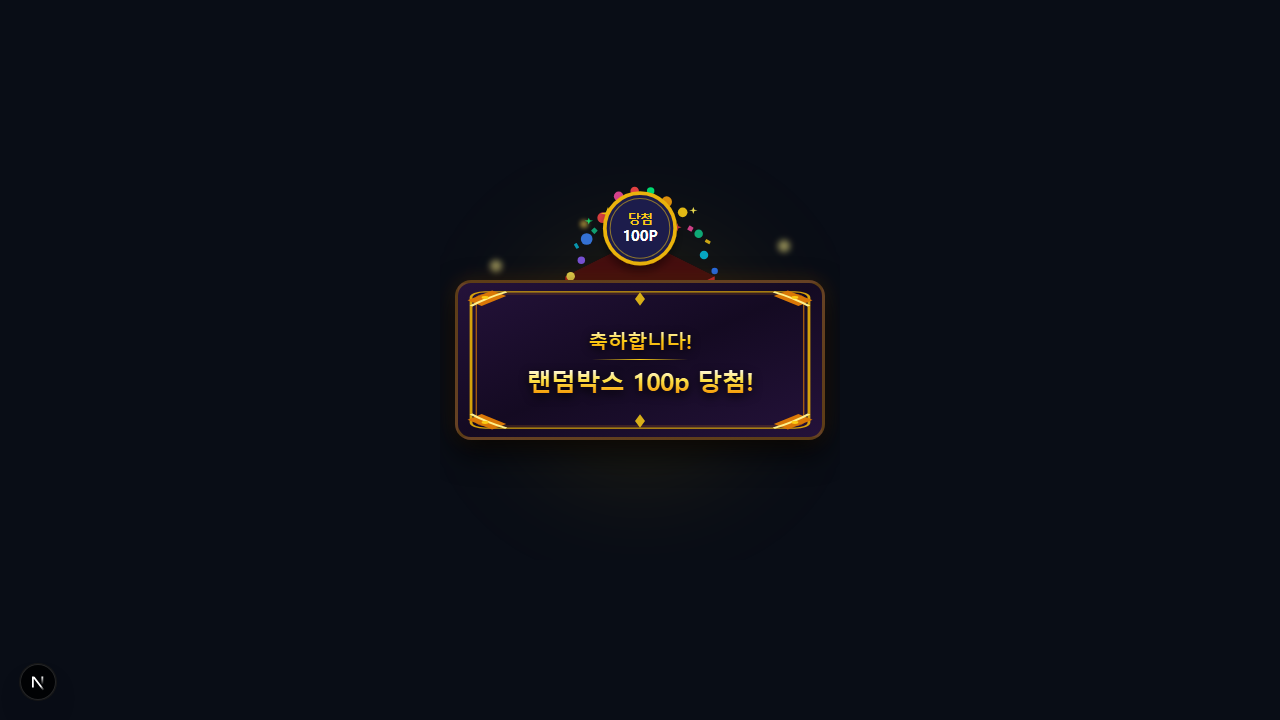
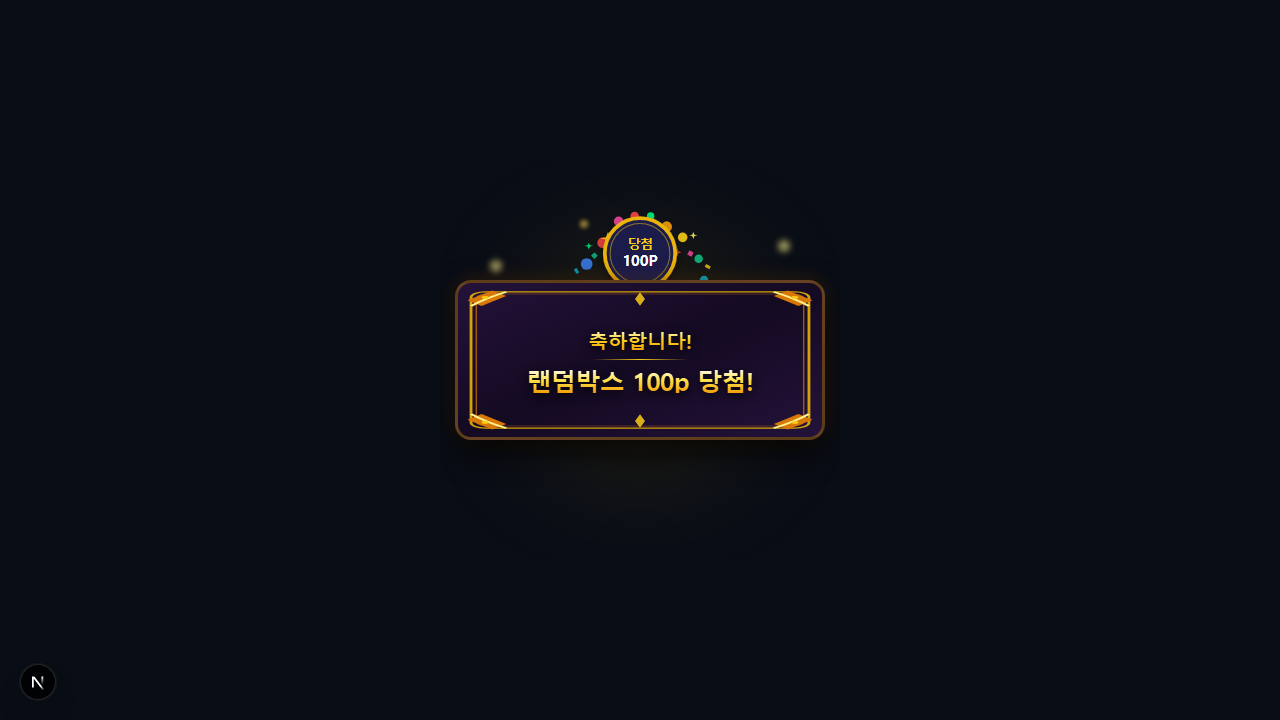
fix: 랜덤상자 폭죽 시작점 수정, 반짝이/폭죽 이모지 제거, 상자 위치 하향 조정 및 배너 캡처 최신화

Changed region(s): [[0.4375, 0.2444, 0.5625, 0.3972]]

diff --git a/src/components/game/LuckyBoxGame.tsx b/src/components/game/LuckyBoxGame.tsx
@@ -284,7 +284,7 @@ export default function LuckyBoxGame({
             onClick={status === 'idle' ? handleOpenBox : undefined}
           >
             {/* SVG 입체 상자 */}
-            <svg viewBox="0 0 200 240" className="w-48 h-56 select-none relative overflow-visible">
+            <svg viewBox="0 0 200 240" className="w-48 h-56 select-none relative overflow-visible mt-8">
               <defs>
                 {/* 리본 그라데이션 */}
                 <linearGradient id="ribbonGrad" x1="0%" y1="0%" x2="100%" y2="100%">
@@ -380,7 +380,7 @@ export default function LuckyBoxGame({
                     style={{
                       position: 'absolute',
                       left: '50%',
-                      top: '55%',
+                      top: '42%',
                       width: c.w,
                       height: c.h,
                       backgroundColor: c.color,
@@ -397,11 +397,6 @@ export default function LuckyBoxGame({
                     } as React.CSSProperties}
                   />
                 ))}
-
-                {/* 큰 별 모양 장식 */}
-                <div className="absolute top-[10%] left-[12%] text-2xl animate-ping" style={{ animationDuration: '2s' }}>✨</div>
-                <div className="absolute top-[15%] right-[15%] text-xl animate-ping" style={{ animationDuration: '2.5s', animationDelay: '0.3s' }}>🎉</div>
-                <div className="absolute top-[5%] left-[45%] text-lg animate-ping" style={{ animationDuration: '3s', animationDelay: '0.6s' }}>🎊</div>
               </div>
             )}
 

diff --git a/app/render-banners/page.tsx b/app/render-banners/page.tsx
@@ -177,7 +177,7 @@ function LuckyBoxBanner({ amount }: { amount: number }) {
         <div className="absolute w-52 h-52 rounded-full bg-yellow-500/15 blur-3xl" />
 
         {/* SVG 열린 선물 상자 + 당첨금 코인 */}
-        <svg viewBox="0 0 200 240" className="w-56 h-64 select-none relative overflow-visible" style={{ position: 'absolute', top: '15px' }}>
+        <svg viewBox="0 0 200 240" className="w-56 h-64 select-none relative overflow-visible" style={{ position: 'absolute', top: '40px' }}>
           <defs>
             <linearGradient id="ribbonGrad2" x1="0%" y1="0%" x2="100%" y2="100%">
               <stop offset="0%" stopColor="#ffee58" stopOpacity={1} />
